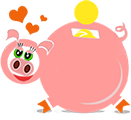
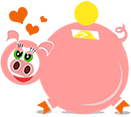
Fixed Growing Player

diff --git a/js/app.js b/js/app.js
@@ -184,6 +184,9 @@ player.prototype.playerGrow = function() {
                 }
             }
         }
+        if (points === 0) {
+            player.sprite = "images/piggis-1.png";
+        }
     }
 }
 
